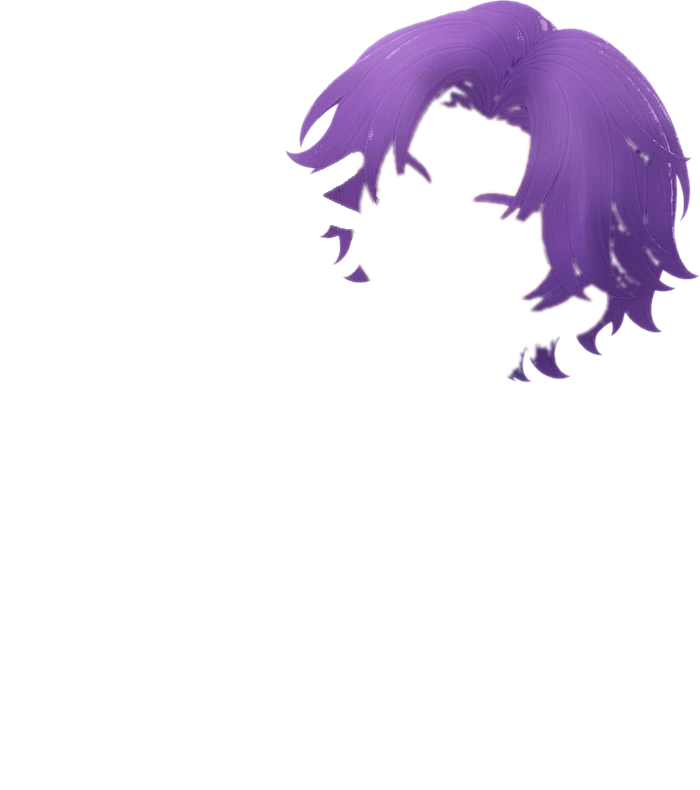
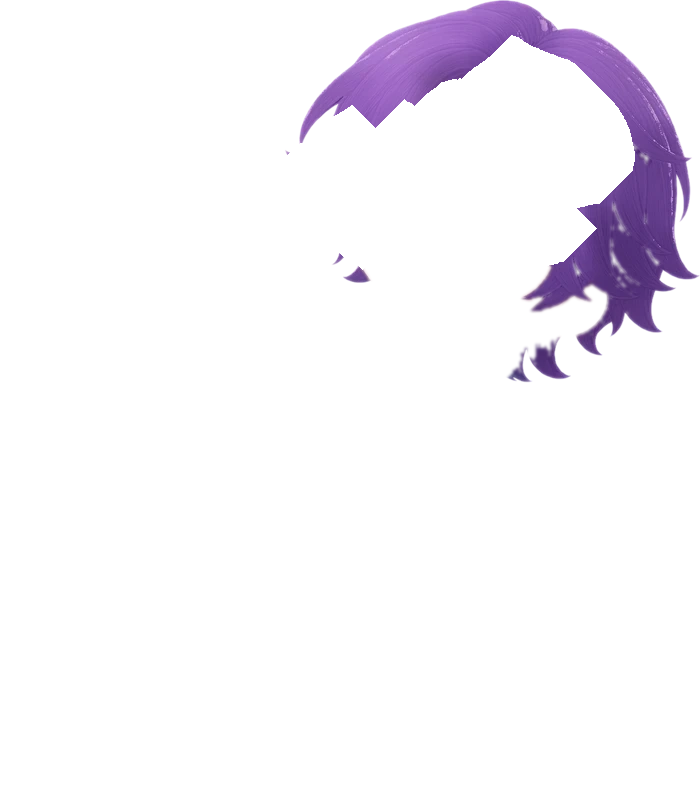
feat: swing only chibi-b's outer hair, holding the hairline and the hand
Swinging the whole hair layer broke it two ways: the hairline lifted off
the inpainted scalp underneath, and the strands over the raised hand tore
along the blend seam the two cut-outs share (both come from one flat
render with no source layers).

Split the layer instead. hairStill is everything within reach of the face
or the fingers and never moves; hair is the outer mass and the tips and
keeps the original crown pivot. The two overlap by 24px along the cut,
wider than the 18px the swing travels there, so the moving piece uncovers
held hair rather than background. At rest the union is the original hair
exactly.

Changed region(s): [[0.42, 0.0304, 0.93, 0.3342]]

diff --git a/src/data/chibi.ts b/src/data/chibi.ts
@@ -91,17 +91,24 @@ const B: ChibiVariant = {
   label: 'ゆきのじょーのキャラクター（デニム）',
   head: [0.62, 0.28],
   hover: { dur: '14.9s', delay: '-8.1s' },
-  // Nothing around the head moves. armBack (the hand raised near the head) has
-  // a block of hair pixels baked into its cut-out that only the hair layer
-  // hides, so it stays UNDER hair; and hair itself is frozen, because swinging
-  // it drags strands across the fingers and opens the seam.
+  // armBack (the hand raised near the head) has a block of hair pixels baked
+  // into its cut-out that only the hair layer hides, so it stays UNDER hair.
+  //
+  // The hair is split in two (see scratchpad/split_hair.py). `hairStill` is
+  // everything within reach of the face or the fingers and never moves: the
+  // hairline would otherwise lift off the inpainted scalp, and the strands
+  // over the hand share a blend seam with the fingers that tears the moment
+  // the two move apart. `hair` is the outer mass and the tips, and swings.
+  // The two overlap by 24px along the cut - wider than the 18px the swing
+  // travels there - so the moving piece uncovers held hair, never background.
   parts: [
     { src: 'legBack' },
     { src: 'legFront' },
     { src: 'armBack' },
     { src: 'armFront' },
     { src: 'body' },
-    { src: 'hair' },
+    { src: 'hairStill' },
+    { src: 'hair', origin: '65% 10%', amp: 3.4, dur: '4.8s', delay: '-1.4s' },
   ],
   eyes: [
     { box: [55.268, 23.669, 4.713, 5.651], pupil: [29.412, 23.188, 78.431, 79.71], travel: [17.647, 8.696] },
